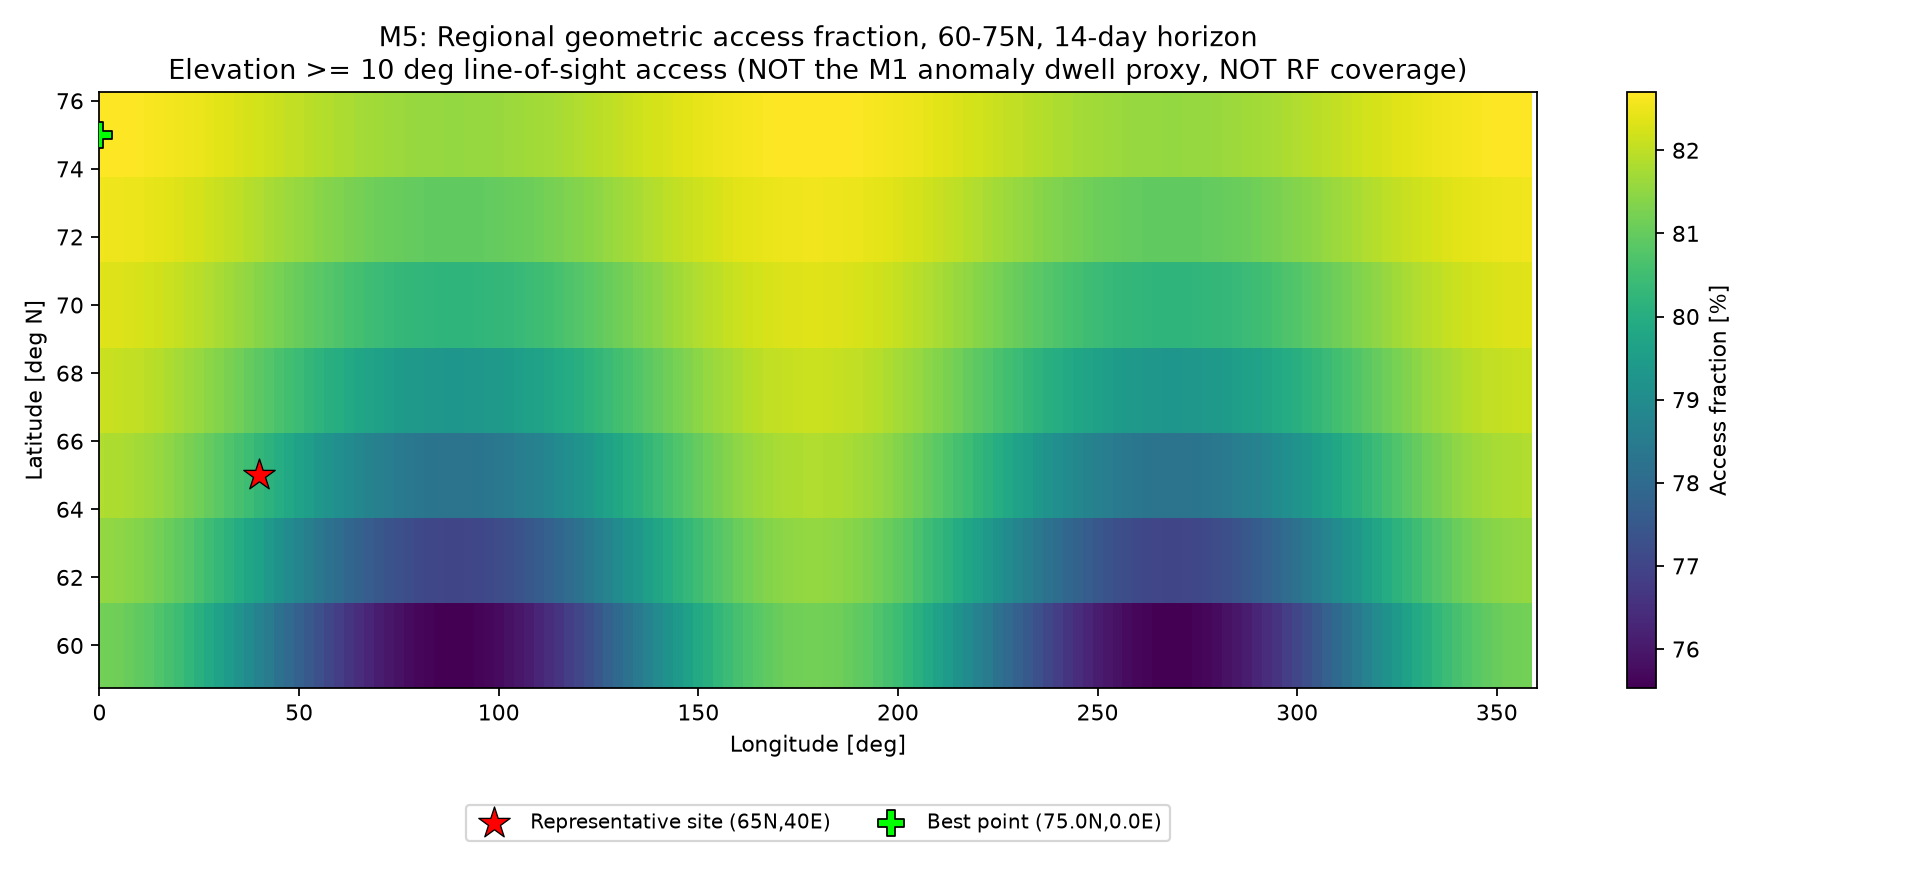
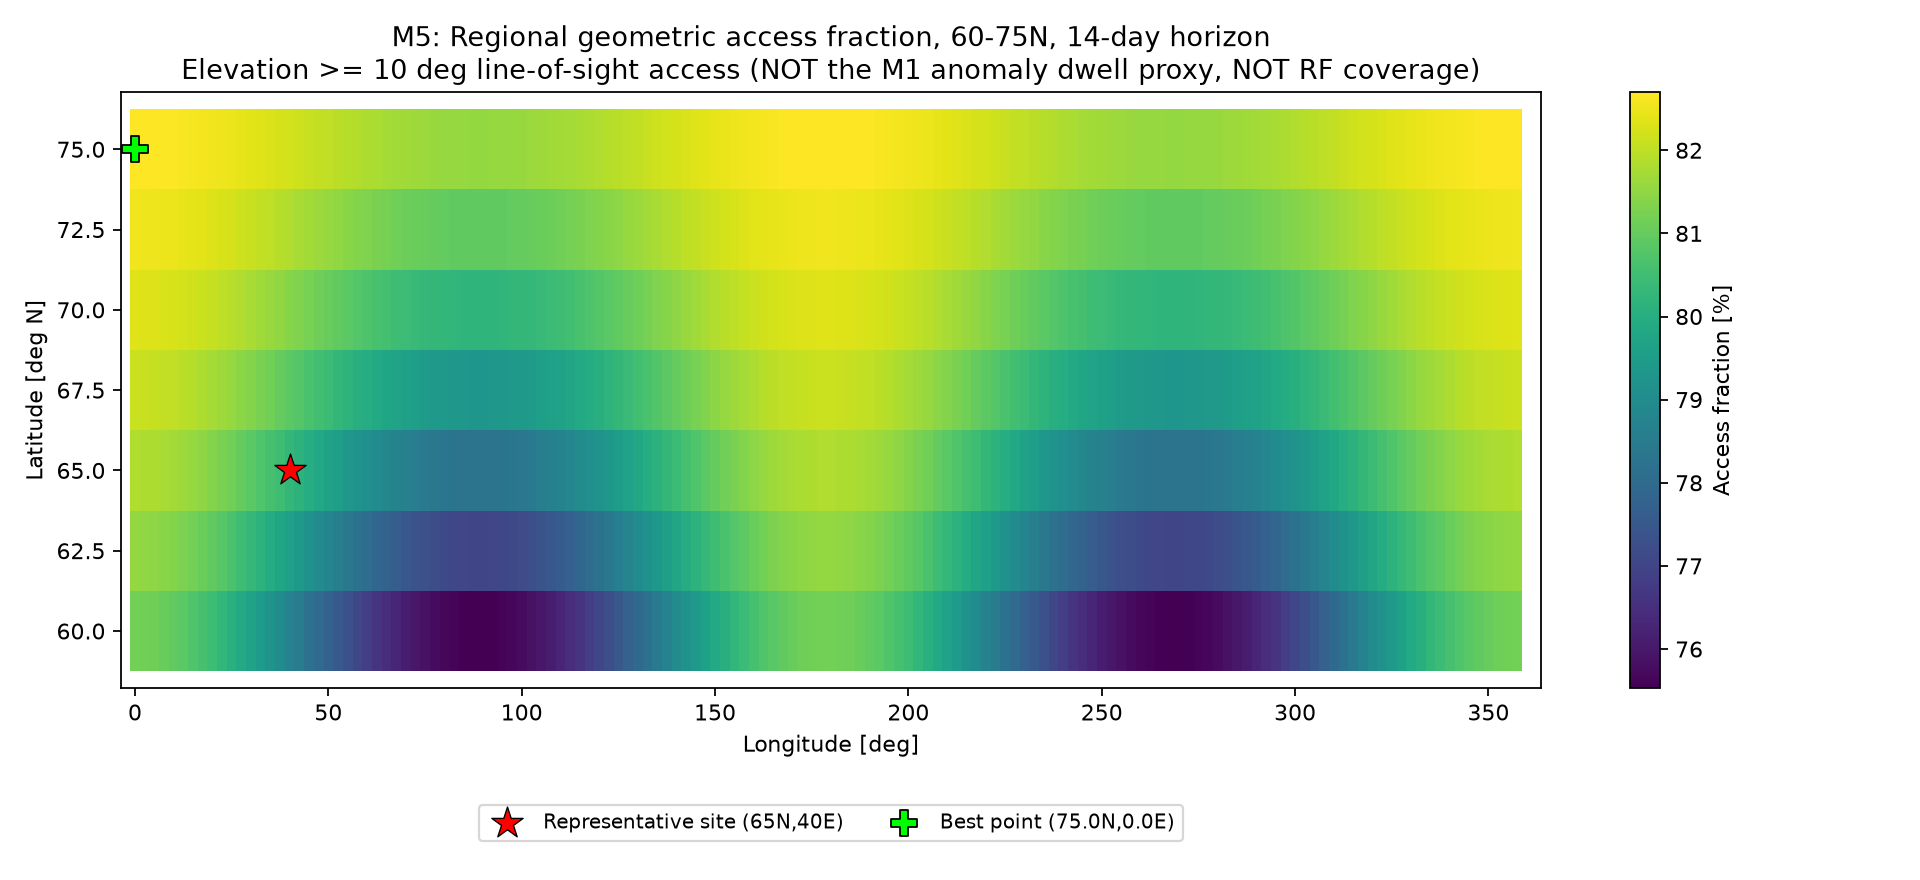
Fix absolute paths in M5 report output and access-fraction map clipping
Presentation/hygiene only - no physics, numerical algorithms, thresholds,
grid definitions, or accepted numerical results changed.

- scripts/m5_verification_report.py: the three "wrote <path>" print
  statements for m5_baseline_regional_metrics.json, m5_sensitivity.csv,
  and m5_convergence.csv used f-strings interpolating RESULTS_DIR (an
  absolute Path), leaking the local machine's absolute filesystem path
  into results/m5_verification_report.txt - inconsistent with the M6
  audit's "no absolute local paths in tracked artifacts" finding.
  Changed to hardcoded repository-relative strings ("results/..."),
  matching the style already used for the m5_grid_metrics.csv print.
  Only the print statements changed; the file-writing code (open(...),
  json.dump, csv writer) is untouched.
- results/m5_verification_report.txt regenerated with the fix. Diffed
  against the previous committed version: the only changes are the
  three path lines; every numeric value is identical. Full-precision
  values re-verified directly from results/m5_baseline_regional_metrics.json
  (itself unchanged on disk): point-weighted mean access =
  0.8049830965950023, area-weighted mean access = 0.8023544039026109,
  worst max gap = 10573.337397868163 s (2.9370381660744895 h), worst
  point = 60N/270E, representative-site access = 0.8028259942263719.
- Repo-wide search for /Users/, /home/, and Windows drive-letter paths
  across all tracked files: the only remaining /Users/ hit is DESIGN.md's
[…]

diff --git a/scripts/m5_figures.py b/scripts/m5_figures.py
@@ -111,13 +111,21 @@ def figure_regional_maps():
     cbar = fig.colorbar(pcm, ax=ax)
     cbar.set_label("Access fraction [%]")
     ax.scatter([SITE_LON_DEG], [SITE_LAT_DEG], color="red", marker="*", s=220,
-               edgecolor="black", linewidth=0.6, zorder=5, label=f"Representative site ({SITE_LAT_DEG:.0f}N,{SITE_LON_DEG:.0f}E)")
+               edgecolor="black", linewidth=0.6, zorder=5, clip_on=False,
+               label=f"Representative site ({SITE_LAT_DEG:.0f}N,{SITE_LON_DEG:.0f}E)")
     ax.scatter([best_lon], [best_lat], color="lime", marker="P", s=140,
-               edgecolor="black", linewidth=0.8, zorder=5, label=f"Best point ({best_lat:.1f}N,{best_lon:.1f}E)")
+               edgecolor="black", linewidth=0.8, zorder=5, clip_on=False,
+               label=f"Best point ({best_lat:.1f}N,{best_lon:.1f}E)")
     ax.set_xlabel("Longitude [deg]")
     ax.set_ylabel("Latitude [deg N]")
-    ax.set_xlim(0, 360)
-    ax.set_ylim(lat_edges[0], lat_edges[-1])
+    # small margin beyond the strict data/grid range so a marker sitting
+    # exactly at a grid corner (e.g. the best point at 75N,0E) renders
+    # fully rather than sitting flush against the axes edge -- display
+    # only, does not change the plotted data
+    x_pad = (lon_edges[-1] - lon_edges[0]) * 0.01
+    y_pad = (lat_edges[-1] - lat_edges[0]) * 0.03
+    ax.set_xlim(0 - x_pad, 360 + x_pad)
+    ax.set_ylim(lat_edges[0] - y_pad, lat_edges[-1] + y_pad)
     ax.set_title(
         "M5: Regional geometric access fraction, 60-75N, 14-day horizon\n"
         "Elevation >= 10 deg line-of-sight access (NOT the M1 anomaly dwell proxy, NOT RF coverage)"

diff --git a/scripts/m5_verification_report.py b/scripts/m5_verification_report.py
@@ -351,7 +351,7 @@ def main():
 
     with open(RESULTS_DIR / "m5_baseline_regional_metrics.json", "w") as f:
         json.dump(report, f, indent=2, default=float)
-    print(f"\nwrote {RESULTS_DIR / 'm5_baseline_regional_metrics.json'}")
+    print("\nwrote results/m5_baseline_regional_metrics.json")
 
     # sensitivity CSV (combined)
     with open(RESULTS_DIR / "m5_sensitivity.csv", "w", newline="") as f:
@@ -369,7 +369,7 @@ def main():
         for row in perigee_rows:
             w.writerow(["perigee_altitude", "perigee_alt_km", row["perigee_alt_km"],
                         row["regional_mean_access_fraction"], row["worst_max_gap_s"], row["site_access_fraction"]])
-    print(f"wrote {RESULTS_DIR / 'm5_sensitivity.csv'}")
+    print("wrote results/m5_sensitivity.csv")
 
     with open(RESULTS_DIR / "m5_convergence.csv", "w", newline="") as f:
         w = csv.writer(f)
@@ -380,7 +380,7 @@ def main():
         for row in conv_grid_rows:
             w.writerow(["spatial", "grid_step_deg", row["grid_step_deg"], "worst_max_gap_s", row["worst_max_gap_s"]])
             w.writerow(["spatial", "grid_step_deg", row["grid_step_deg"], "point_weighted_mean_access_fraction", row["point_weighted_mean_access_fraction"]])
-    print(f"wrote {RESULTS_DIR / 'm5_convergence.csv'}")
+    print("wrote results/m5_convergence.csv")
 
     print("\n" + "=" * 78)
     print("END M5 VERIFICATION REPORT")
